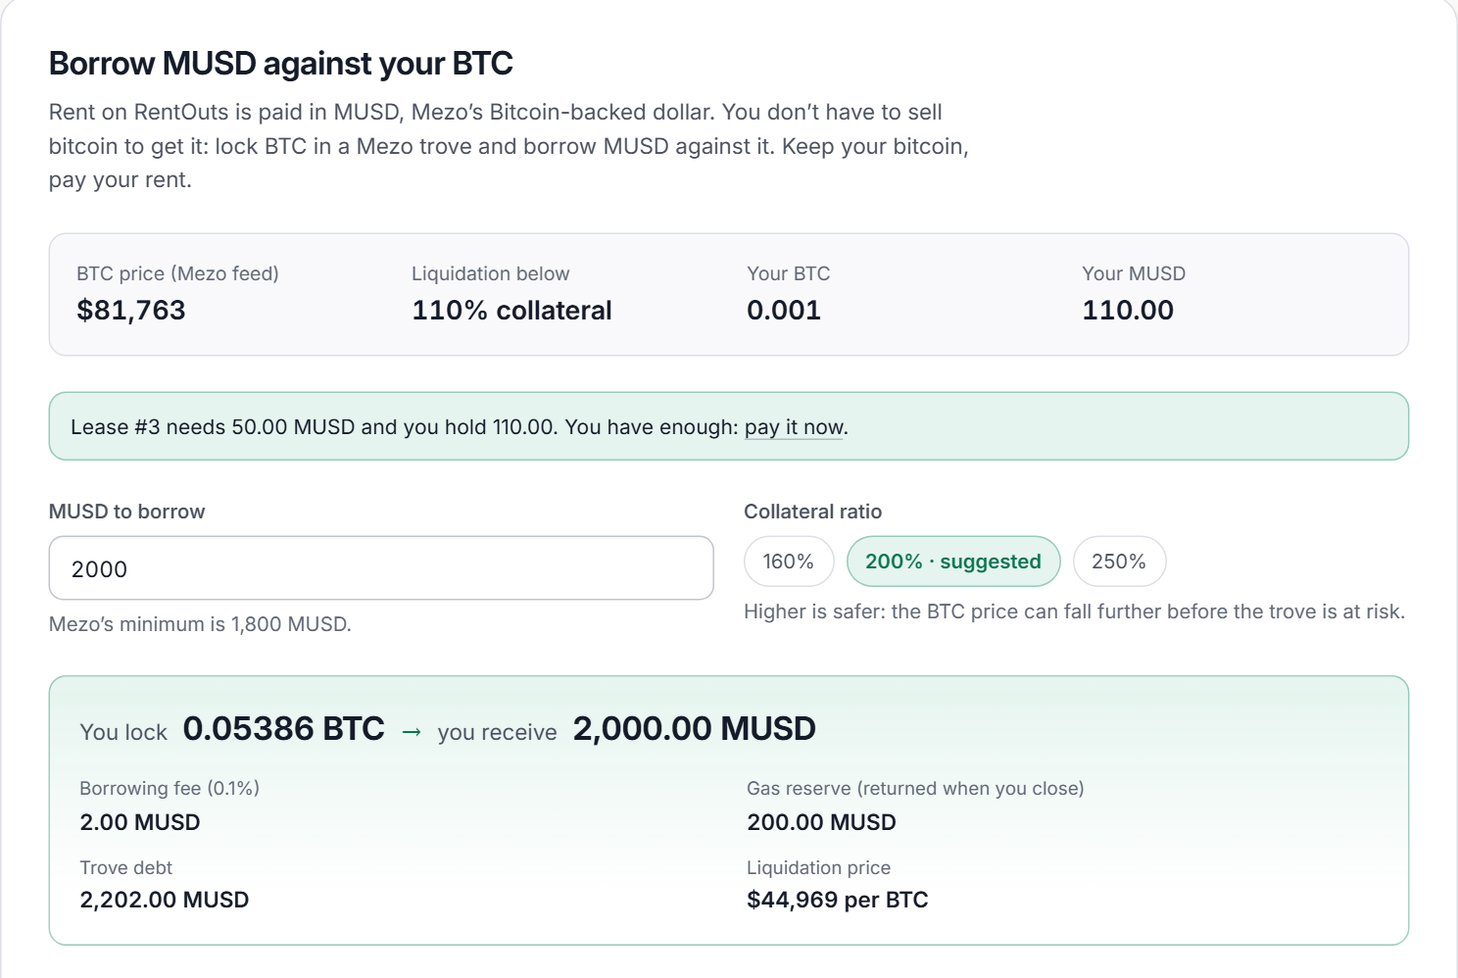
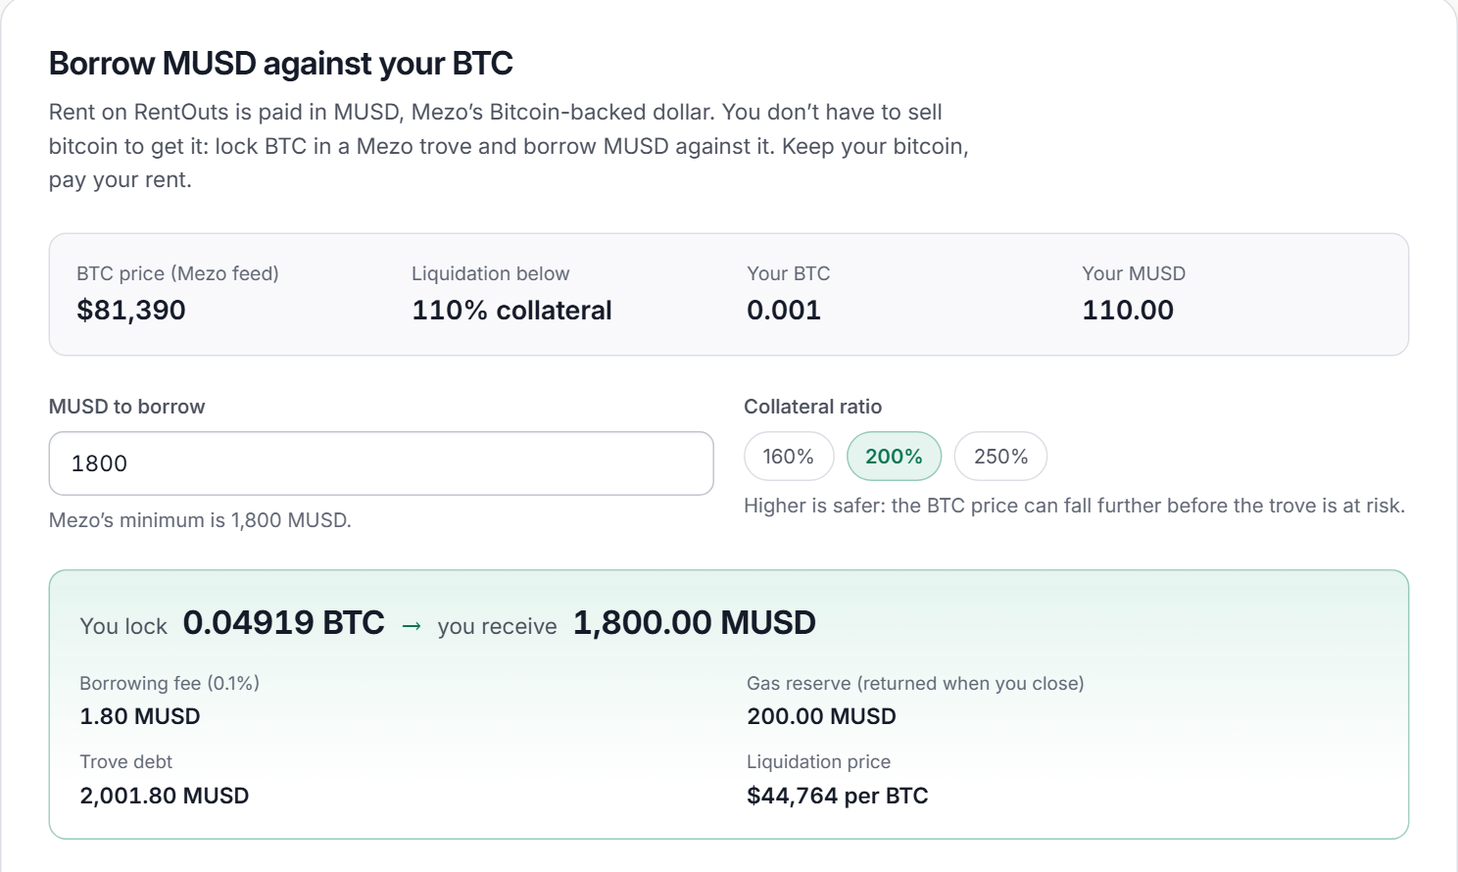
docs: full README — system map, lease flow and states, step screenshots, security model, limits, roadmap

diff --git a/README.md b/README.md
@@ -1,87 +1,232 @@
-# RentOuts MUSD
+# RentOuts × Mezo — pay rent in MUSD
 
-**Keep your bitcoin. Pay your rent.** Long-term rent and deposits paid in **MUSD** on Mezo testnet.
+**Keep your bitcoin. Pay your rent.**
 
-[rentouts.co](https://rentouts.co) is the existing rental marketplace. This repository is the new work for the Mezo Buildathon: the same non-custodial `RentEscrow` contracts, wired to MUSD, Mezo’s Bitcoin-backed stablecoin.
-
-`RentEscrow` takes its settlement token in the constructor. MUSD is that token. The contract does not hold admin keys, does not take a fee, and cannot be upgraded. A tenant prepays the deposit and the rent. Rent unlocks to the landlord one period at a time. At the end, the deposit comes back to the tenant.
-
-![RentOuts on Mezo: keep your bitcoin, pay your rent](docs/img/home.png)
-
-## Try it
-
-**Live app: https://mezo.rentouts.co** — one wallet is enough:
-
-1. **Get a lease** from the demo landlord (a contract that rents to anyone).
-2. **Borrow MUSD** against testnet BTC, in the app: it calls Mezo Borrow (`openTrove`, or `withdrawMUSD` on an existing trove) and shows the BTC price, collateral ratio, fee and liquidation price first.
-3. **Pay in MUSD**: approve, then prepay the deposit and every period’s rent into the escrow.
-4. **Run the lease**: rent releases to the landlord period by period; after the term, close it and the deposit comes back.
-
-Lease #2 is running on the live escrow until 6 Nov, so *Run the lease* shows rent unlocking without a wallet.
-
-| Borrow MUSD against BTC (Mezo Borrow) | A live lease, releasing rent daily |
-|---|---|
-| ![Borrow step](docs/img/borrow.png) | ![Lease #2](docs/img/live-lease.png) |
-
-Source and steps: [`app/`](app/README.md).
-
-## How MUSD is used
-
-| Where | Mezo / MUSD call |
-|---|---|
-| Borrow step | `BorrowerOperations.openTrove` / `withdrawMUSD`, hints from `HintHelpers.getApproxHint` + `SortedTroves.findInsertPosition`, price from the Mezo `PriceFeed` |
-| Pay step | `MUSD.approve` → `RentEscrow.fundLease` pulls deposit + all rent in MUSD |
-| Run step | `RentEscrow.claimRent` releases MUSD to the landlord per period; `closeLease` returns the MUSD deposit |
-
-## Network
+Long-term rent and deposits paid in **MUSD**, Mezo’s Bitcoin-backed dollar, through a non-custodial escrow on Mezo testnet. A tenant borrows MUSD against their BTC inside the app (no selling), prepays the deposit and rent into the escrow, and the escrow releases rent to the landlord one period at a time. At move-out the deposit goes straight back to the tenant.
 
 | | |
 |---|---|
-| Chain | Mezo testnet, id **31611** |
-| RPC | `https://rpc.test.mezo.org` |
-| Explorer | https://explorer.test.mezo.org |
-| Gas | BTC |
-| MUSD | `0x118917a40FAF1CD7a13dB0Ef56C86De7973Ac503` (**18 decimals**) |
-| Faucet | https://faucet.test.mezo.org |
+| **Live app** | **https://mezo.rentouts.co** (Mezo testnet, one wallet is enough) |
+| **Existing product** | https://rentouts.co — long-term rental marketplace (6–24 month homes, not nightly stays) |
+| **Buildathon** | Mezo Buildathon, Wave 1 · Track 2: Access and Distribution |
+| **Chain** | Mezo testnet, chain id 31611 · gas in BTC · MUSD `0x1189…c503` |
+| **Contracts** | Verified on Sourcify (exact match) · 104 Foundry tests incl. an invariant suite · 117 app tests |
+| **Team** | AiAlchemist · X [@RentOuts](https://x.com/RentOuts) |
 
-MUSD is minted by borrowing against testnet BTC (`BorrowerOperations.openTrove`), or by swapping inside https://testnet.mezo.org. ABIs for those public contracts are in `.mezo/`.
+![RentOuts on Mezo: keep your bitcoin, pay your rent](docs/img/home.png)
 
-Live `mezoTestnet` (source verified on Sourcify, exact match):
+---
 
-| Contract | Address |
+## Contents
+
+- [The problem](#the-problem)
+- [What we built](#what-we-built)
+- [Try it in five minutes](#try-it-in-five-minutes)
+- [How it works](#how-it-works) — system map, one lease end to end, lease states
+- [How MUSD and Mezo are used](#how-musd-and-mezo-are-used)
+- [Screenshots](#screenshots)
+- [Contracts and live evidence](#contracts-and-live-evidence)
+- [Security model](#security-model)
+- [Limitations](#limitations)
+- [Roadmap](#roadmap)
+- [Repository map](#repository-map)
+- [Build, test, deploy](#build-test-deploy)
+
+---
+
+## The problem
+
+A long-term lease puts one side at the other’s mercy.
+
+- **Renters** hand a deposit to the landlord’s bank and hope to see it again. Small-claims court is often the only door.
+- **Owners** chase late rent, bounced payments and reversals months later. Two spreadsheets, no shared ledger.
+- **Bitcoin holders** pay the biggest bill they have, rent, in dollars. Today that means selling BTC, with the tax event that comes with it.
+
+## What we built
+
+RentOuts is an existing, invite-only long-term rental marketplace at [rentouts.co](https://rentouts.co): owners list, renters search and inquire, both sign in with Ethereum. For the Mezo Buildathon we added the piece that makes the lease fair to both sides, paid in a Bitcoin-backed dollar:
+
+1. **RentEscrow on Mezo with MUSD as its token.** The tenant prepays the deposit and every period’s rent. Rent unlocks to the landlord period by period; the landlord can never take it early and the tenant can never be late. At the end the deposit returns to the tenant. No admin keys, no fee, not upgradeable. RentOuts never holds funds.
+2. **Borrow MUSD against BTC, in the app.** The Borrow step calls Mezo Borrow directly (`openTrove` for a new trove, `withdrawMUSD` for an existing one) and shows the BTC price, collateral ratio, fee and liquidation price before the tenant signs. It sizes a new trove to the wallet: Mezo’s testnet faucet BTC is enough on the first try.
+3. **DemoLandlord.** A contract landlord anyone can rent from, so a reviewer can run the whole tenant side with a single wallet.
+4. **A hosted app** at https://mezo.rentouts.co with live on-chain stats, a lease that keeps releasing rent through judging, and a mobile layout.
+
+## Try it in five minutes
+
+You need a browser wallet (MetaMask) on Mezo testnet; the app offers to add and switch the network.
+
+1. Get testnet BTC from **https://faucet.test.mezo.org** (0.05 BTC covers everything below).
+2. Open **https://mezo.rentouts.co** → **Get a lease** → *Get a demo lease*. The demo landlord creates a lease with you as the tenant: a 20 MUSD deposit and 3 × 10 MUSD rent, one period a minute.
+3. **Borrow MUSD** → the app suggests Mezo’s 1,800 MUSD minimum at the safest ratio your BTC allows → *Borrow*. Your BTC stays yours, locked in your own Mezo trove.
+4. **Pay in MUSD** → *Approve 50.00 MUSD* → *Pay rent in MUSD — Bitcoin-backed*.
+5. **Run the lease** → after a minute, *Release rent* (anyone may; it only ever goes to the landlord). After the term plus one period, *Close lease*: the 20 MUSD deposit comes back to you.
+
+No wallet? **Run the lease** shows lease #2 (800 MUSD prepaid, 50 MUSD released per day until 6 Nov 2026) live from the chain.
+
+## How it works
+
+### System map
+
+```mermaid
+flowchart LR
+    T(["Tenant wallet<br/>BTC"])
+    L(["Landlord"])
+    APP["RentOuts app<br/>mezo.rentouts.co"]
+
+    subgraph MEZO["Mezo testnet (chain 31611)"]
+        direction TB
+        subgraph BORROW["Mezo Borrow"]
+            BO["BorrowerOperations<br/>openTrove · withdrawMUSD"]
+            PF["PriceFeed"]
+            HH["HintHelpers + SortedTroves"]
+        end
+        MUSD[("MUSD<br/>Bitcoin-backed dollar")]
+        subgraph RO["RentOuts contracts"]
+            ESC["RentEscrow<br/>token = MUSD, no admin, no fee"]
+            LS["LeaseShare1155<br/>100 shares per lease"]
+            DL["DemoLandlord"]
+        end
+        ARB(["Arbiter<br/>disputes only"])
+    end
+
+    T -- "1 · lock BTC" --> BO
+    BO -- "mints" --> MUSD
+    MUSD -- "2 · MUSD to tenant" --> T
+    T -- "3 · approve + fundLease<br/>deposit + all rent" --> ESC
+    ESC -- "4 · claimRent, each period" --> L
+    ESC -- "5 · closeLease: deposit back" --> T
+    ESC -- "mint on createLease" --> LS
+    DL -- "createLease for any tenant" --> ESC
+    ARB -. "resolveDispute: split what is left" .-> ESC
+    APP -. "reads price, ratio, hints" .-> PF
+    APP -. "reads" .-> HH
+    APP -. "signs via wallet" .-> T
+```
+
+### One lease, end to end
+
+```mermaid
+sequenceDiagram
+    autonumber
+    actor Tenant
+    participant App as RentOuts app
+    participant DL as DemoLandlord
+    participant Mezo as Mezo Borrow
+    participant MUSD
+    participant Escrow as RentEscrow
+    actor Landlord
+
+    Tenant->>DL: requestLease()
+    DL->>Escrow: createLease(tenant, 20, 10, 60s, 3)
+    Escrow-->>DL: lease #n + 100 LeaseShare1155 shares
+    App->>Mezo: fetchPrice, MCR, fee, hints
+    Tenant->>Mezo: openTrove(1,800 MUSD) with BTC (or withdrawMUSD)
+    Mezo->>MUSD: mint to tenant
+    Tenant->>MUSD: approve(escrow, 50)
+    Tenant->>Escrow: fundLease(n)
+    MUSD->>Escrow: 50 MUSD (deposit + all rent)
+    loop every period
+        Landlord->>Escrow: claimRent(n) (anyone may call)
+        Escrow->>MUSD: 10 MUSD to the landlord
+    end
+    Tenant->>Escrow: closeLease(n) after term + one period
+    Escrow->>MUSD: 20 MUSD deposit back to the tenant
+```
+
+### Lease states
+
+```mermaid
+stateDiagram-v2
+    [*] --> CREATED: createLease (landlord)
+    CREATED --> CANCELLED: cancelLease (landlord, before funding)
+    CREATED --> ACTIVE: fundLease (tenant prepays deposit + all rent)
+    ACTIVE --> ACTIVE: claimRent (anyone; rent only to the landlord)
+    ACTIVE --> CLOSED: closeLease (after the term; rest of rent to landlord, deposit to tenant)
+    ACTIVE --> DISPUTED: openDispute (tenant or landlord)
+    DISPUTED --> CLOSED: resolveDispute (arbiter splits what is left)
+    CLOSED --> [*]
+    CANCELLED --> [*]
+```
+
+After the term, the landlord can close at once; anyone else can close one period later. That grace period is the landlord’s window to open a dispute (for example over damage) before the deposit goes back.
+
+## How MUSD and Mezo are used
+
+| Step | Contract call | Why it matters |
+|---|---|---|
+| Borrow | `BorrowerOperations.openTrove(debt, upperHint, lowerHint)` with BTC as value, or `withdrawMUSD(amount, …)` on an existing trove | The tenant gets MUSD without selling BTC. Each new tenant who borrows opens a Mezo Borrow position. |
+| Borrow (reads) | `PriceFeed.fetchPrice`, `MCR`, `CCR`, `minNetDebt`, `borrowingRate`, `MUSD_GAS_COMPENSATION`, `TroveManager.getEntireDebtAndColl` | Price, ratio, fee and liquidation price are shown before signing; the default is sized to the wallet’s BTC. |
+| Borrow (hints) | `HintHelpers.computeNominalCR` + `getApproxHint` → `SortedTroves.findInsertPosition` | Keeps the trove insert cheap; falls back to zero hints if the lookup fails. |
+| Pay | `MUSD.approve` → `RentEscrow.fundLease` | Deposit plus every period’s rent are held in MUSD for the whole term. |
+| Run | `RentEscrow.claimRent` · `closeLease` | MUSD flows to the landlord per period and back to the tenant at the end. |
+
+Why rent is a good use of MUSD: it is the largest recurring bill most people pay, and every lease holds MUSD for months. One $2,000-a-month, 12-month lease is 26,000 MUSD held in escrow on day one and released over a year.
+
+## Screenshots
+
+| 1 · Get a lease from the demo landlord | 2 · Borrow MUSD against BTC |
 |---|---|
-| RentEscrow | [`0xA9f09366991E6df87855F4B99025911790d4C3aF`](https://explorer.test.mezo.org/address/0xA9f09366991E6df87855F4B99025911790d4C3aF) |
-| LeaseShare1155 | [`0xfE8bF13ed62A473277d841b0DEDf7720C3DBc820`](https://explorer.test.mezo.org/address/0xfE8bF13ed62A473277d841b0DEDf7720C3DBc820) |
-| DemoLandlord | [`0x6621dE90776302aD1a3C0190141f9169B4A0112B`](https://explorer.test.mezo.org/address/0x6621dE90776302aD1a3C0190141f9169B4A0112B) — 20 MUSD deposit, 10 MUSD / 60s × 3 |
-| Arbiter | `0x1da334A5FaB59a741fDAE7f081c7f592027b3106` |
-| Human gate | none |
+| ![Demo lease](docs/img/step1-demo-lease.png) | ![Borrow](docs/img/borrow.png) |
 
-**Lease #1** (closed): 20 MUSD deposit, 10 MUSD / 60s × 2 periods. Landlord claimed one period; tenant closed and got the deposit back.
+| 3 · Pay deposit + rent in MUSD | 4 · Rent released, deposit back |
+|---|---|
+| ![Pay](docs/img/step3-pay.png) | ![Closed lease](docs/img/step4-closed.png) |
+
+| A lease releasing rent during judging | Every step on the Mezo explorer |
+|---|---|
+| ![Lease #2](docs/img/live-lease.png) | ![Explorer](docs/img/explorer.png) |
+
+<p align="center"><img src="docs/img/mobile.png" alt="Mobile" width="260" /></p>
+
+## Contracts and live evidence
+
+All on Mezo testnet (chain 31611), verified on Sourcify (exact match).
+
+| Contract | Address | Role |
+|---|---|---|
+| RentEscrow | [`0xA9f09366991E6df87855F4B99025911790d4C3aF`](https://explorer.test.mezo.org/address/0xA9f09366991E6df87855F4B99025911790d4C3aF) | Holds deposit + rent in MUSD; releases rent per period |
+| LeaseShare1155 | [`0xfE8bF13ed62A473277d841b0DEDf7720C3DBc820`](https://explorer.test.mezo.org/address/0xfE8bF13ed62A473277d841b0DEDf7720C3DBc820) | ERC-1155 lease shares (100 per lease, compliance allowlist) |
+| DemoLandlord | [`0x6621dE90776302aD1a3C0190141f9169B4A0112B`](https://explorer.test.mezo.org/address/0x6621dE90776302aD1a3C0190141f9169B4A0112B) | Rents to anyone: 20 MUSD deposit, 10 MUSD / 60 s × 3 |
+| Arbiter | `0x1da334A5FaB59a741fDAE7f081c7f592027b3106` | Can only split a disputed lease between its two parties |
+| MUSD (Mezo) | `0x118917a40FAF1CD7a13dB0Ef56C86De7973Ac503` | Settlement token, 18 decimals |
+| BorrowerOperations (Mezo) | `0xCdF7028ceAB81fA0C6971208e83fa7872994beE5` | `openTrove` / `withdrawMUSD` |
+
+**Lease #6 — the full flow from the live site** (demo lease → borrow in-app → pay → release → close):
 
 | Step | Tx |
 |---|---|
-| Mint 2000 MUSD (`openTrove`) | [`0x037283b2…917b`](https://explorer.test.mezo.org/tx/0x037283b2380752c8ce1c58df1a11ebd0e2a3c8b8ca3316d2b50905ef5466917b) |
-| createLease | [`0x5c819992…92ed`](https://explorer.test.mezo.org/tx/0x5c8199923d447762e3328682c0018834a393ba369b8932d6b513f751184a92ed) |
-| fundLease | [`0x3bd42097…9690`](https://explorer.test.mezo.org/tx/0x3bd42097117b0277f2d44e90bcc07ab757c0c1e5c0d95fbd49995602eaa89690) |
-| claimRent | [`0xe3dddf8d…02ef`](https://explorer.test.mezo.org/tx/0xe3dddf8d66a9a19c3fe675b2ce524a230a33c34b951409ea6394645db63302ef) |
-| closeLease | [`0x0ca9fcd7…1c87`](https://explorer.test.mezo.org/tx/0x0ca9fcd7661273512c8fffd0a708d51a817a0fe6878e4ef4396c62eb1cb71c87) |
+| DemoLandlord.requestLease | [`0x5d250a56…6c4e`](https://explorer.test.mezo.org/tx/0x5d250a56d0df12add7416852a1f8a5b8862f093cc1a2caf67ac5f77765ed6c4e) |
+| BorrowerOperations.withdrawMUSD | [`0x20654b72…c97c`](https://explorer.test.mezo.org/tx/0x20654b722b6c333a59cabe5ca19f772753152c946043f619d5609638204ec97c) |
+| MUSD.approve | [`0x2efcf493…d4f9`](https://explorer.test.mezo.org/tx/0x2efcf493db6717f081054bf22406d3c412875c522fece6488895a9f858ecd4f9) |
+| RentEscrow.fundLease | [`0xed3097f3…28aa`](https://explorer.test.mezo.org/tx/0xed3097f36a3898811192d5f0f5f6220b5d95b75eaa66918ef13491508c1c28aa) |
+| RentEscrow.claimRent | [`0x6a684a83…a021`](https://explorer.test.mezo.org/tx/0x6a684a831177a4bef4d524e68d63fcb5e2c67c3102e38b40d44d2b61c35da021) |
+| RentEscrow.closeLease | [`0xc462a321…ae77`](https://explorer.test.mezo.org/tx/0xc462a3219e08f85912ebe0a0a334eca7cc6a1f5edb9788138d99aebfe85cae77) |
 
-**Lease #2** (active until 6 Nov 2026): 100 MUSD deposit, 50 MUSD / day × 14 periods, 800 MUSD prepaid. Rent unlocks to the landlord one day at a time; read it live with `getLease(2)` and `claimable(2)`.
+**Lease #1** — first MUSD lease, minted through `openTrove` (2,000 MUSD on 0.045 BTC): [`openTrove`](https://explorer.test.mezo.org/tx/0x037283b2380752c8ce1c58df1a11ebd0e2a3c8b8ca3316d2b50905ef5466917b) · [`createLease`](https://explorer.test.mezo.org/tx/0x5c8199923d447762e3328682c0018834a393ba369b8932d6b513f751184a92ed) · [`fundLease`](https://explorer.test.mezo.org/tx/0x3bd42097117b0277f2d44e90bcc07ab757c0c1e5c0d95fbd49995602eaa89690) · [`claimRent`](https://explorer.test.mezo.org/tx/0xe3dddf8d66a9a19c3fe675b2ce524a230a33c34b951409ea6394645db63302ef) · [`closeLease`](https://explorer.test.mezo.org/tx/0x0ca9fcd7661273512c8fffd0a708d51a817a0fe6878e4ef4396c62eb1cb71c87)
 
-| Step | Tx |
-|---|---|
-| createLease | [`0x2f0dd40f…c9f7`](https://explorer.test.mezo.org/tx/0x2f0dd40f50ad94a28935af4acdc7802d59fd28bfa3df51a1d1d40a960ce7c9f7) |
-| fundLease | [`0xd1d5088b…6532`](https://explorer.test.mezo.org/tx/0xd1d5088b7956bee94ce8ca5bc85a38ff4e63fcb3e5c0bca00b0f7ba00b116532) |
+**Lease #2** — running until 6 Nov 2026: 100 MUSD deposit, 50 MUSD / day × 14, 800 MUSD prepaid ([`createLease`](https://explorer.test.mezo.org/tx/0x2f0dd40f50ad94a28935af4acdc7802d59fd28bfa3df51a1d1d40a960ce7c9f7) · [`fundLease`](https://explorer.test.mezo.org/tx/0xd1d5088b7956bee94ce8ca5bc85a38ff4e63fcb3e5c0bca00b0f7ba00b116532)). Read it live with `getLease(2)` and `claimable(2)`.
 
-Full log: [docs/MEZO-DEMO.md](docs/MEZO-DEMO.md).
+Full transaction log: [docs/MEZO-DEMO.md](docs/MEZO-DEMO.md).
 
-## Limitations (honest list)
+## Security model
 
-**Getting MUSD takes real BTC.** Mezo's minimum trove is 1,800 MUSD (plus a 0.1% fee and a 200 MUSD gas reserve that comes back when the trove closes). At about $81k per BTC that needs roughly 0.037 BTC at 150% and 0.049 BTC at 200%: about $3,000–4,000 of BTC, even for a small lease. Mezo's testnet faucet gives 0.05 BTC, which the app sizes for. Mezo charges 1% a year on the trove. Already holding MUSD skips all of this.
+- **No owner, no admin, no fee, no upgrade path.** Token, arbiter, lease-share contract and human gate are immutable constructor arguments.
+- **Funds only ever reach the lease’s two parties.** The arbiter cannot be a landlord or tenant and can only split a disputed lease’s own remaining escrow.
+- **Invariants, fuzzed** (`test/RentEscrow.invariant.t.sol`, 64 runs × depth 256, revert = failure):
+  - INV-1 funds only ever move to the lease’s tenant or landlord;
+  - INV-2 the sum of every lease’s escrow balance equals the escrow’s MUSD balance;
+  - INV-3 rent released never exceeds rent per period × elapsed periods (capped at the term);
+  - INV-4 a dispute pays out exactly the lease’s remaining escrow.
+- **Rent can’t be taken early or withheld.** `claimRent` releases only elapsed periods, and anyone may call it, but the MUSD only goes to the landlord.
+- **The app holds no keys.** It is a static site; every transaction is signed in the user’s wallet, simulated first so reverts show as readable messages.
 
-**The whole lease is prepaid.** `RentEscrow` takes the deposit and every period's rent in one transaction. That is what makes rent impossible to miss for the landlord, but a 12-month, $2,000 lease means 26,000 MUSD up front (about 0.64 BTC at 200%).
+## Limitations
 
-**The tenant carries the BTC price risk, the landlord does not.** The BTC is in the tenant's own Mezo trove, not in the escrow: RentOuts and the landlord cannot touch it, and the tenant can repay and withdraw it at any time. What protects the landlord is the MUSD already in escrow. If BTC falls far enough, the tenant's trove can be liquidated or redeemed against, but the lease keeps paying the landlord.
+**Getting MUSD takes real BTC.** Mezo’s minimum trove is 1,800 MUSD (plus a 0.1% fee and a 200 MUSD gas reserve that comes back when the trove closes). At about $81k per BTC that needs roughly 0.037 BTC at 150% and 0.049 BTC at 200%: about $3,000–4,000 of BTC, even for a small lease. Mezo’s testnet faucet gives 0.05 BTC, which the app sizes for. Mezo charges 1% a year on the trove. Already holding MUSD skips all of this.
+
+**The whole lease is prepaid.** `RentEscrow` takes the deposit and every period’s rent in one transaction. That is what makes rent impossible to miss for the landlord, but a 12-month, $2,000 lease means 26,000 MUSD up front (about 0.64 BTC at 200%).
+
+**The tenant carries the BTC price risk, the landlord does not.** The BTC is in the tenant’s own Mezo trove, not in the escrow: RentOuts and the landlord cannot touch it, and the tenant can repay and withdraw it at any time. What protects the landlord is the MUSD already in escrow. If BTC falls far enough, the tenant’s trove can be liquidated or redeemed against, but the lease keeps paying the landlord.
 
 **Breaking a lease goes through a dispute.** There is no mutual early termination yet. A tenant who moves out early, a landlord who needs the unit back, or a unit that is not as promised: either side opens a dispute, which freezes what is left in escrow until the arbiter splits it. Rent already released stays released; damage beyond what is left in escrow is not covered on-chain. A dispute has no timeout, so the arbiter must stay available (one key on testnet; a multisig is planned).
 
@@ -89,21 +234,56 @@ Full log: [docs/MEZO-DEMO.md](docs/MEZO-DEMO.md).
 
 **Testnet, not audited.** No real funds, no external audit yet. `DemoLandlord` exists only so one wallet can try the tenant side.
 
-**Next (Wave 2):** pay monthly instead of prepaying the whole term (deposit plus the next period, topped up as it goes), mutual early termination with an agreed penalty, a dispute timeout, and borrow-and-pay in one transaction.
+## Roadmap
 
-## Run the tests
+| When | Milestone |
+|---|---|
+| **Wave 2 · by 15 Nov 2026** | Pay monthly instead of prepaying the whole term (deposit plus the next period, topped up as it goes) · mutual early termination with an agreed penalty · a dispute timeout · borrow-and-pay in one transaction |
+| **Q1 2027** | MUSD as a payment option in the rentouts.co owner and renter portals for invite-only beta leases |
+| **Q2 2027** | External audit, Mezo mainnet launch, multisig arbiter |
 
-[Foundry](https://book.getfoundry.sh/) is required.
+## Repository map
+
+```
+rentouts-musd/
+├── src/
+│   ├── RentEscrow.sol          escrow: create · fund · claimRent · close · dispute
+│   ├── LeaseShare1155.sol      ERC-1155 lease shares with a compliance allowlist
+│   ├── DemoLandlord.sol        a landlord anyone can rent from (one-wallet demo)
+│   ├── HumanGate.sol           optional "verified human" gate for funding (off on Mezo)
+│   └── interfaces/             IRentEscrow (lifecycle + invariants), IHumanGate
+├── test/                       104 Foundry tests, incl. RentEscrow.invariant.t.sol
+├── script/                     DeployEscrow.s.sol, DeployDemoLandlord.s.sol
+├── deployments.json            live addresses ("mezoTestnet")
+├── .mezo/                      Mezo protocol ABIs + a raw eth_call helper
+├── app/                        the web app (React 19, Vite, wagmi + viem)
+│   └── src/
+│       ├── panels/             Get a lease · Borrow · Pay · Run · Lease shares
+│       ├── lib/trove.ts        Mezo Borrow math (ratio, collateral, liquidation, sizing)
+│       └── abi/mezo.ts         Mezo Borrow ABIs and addresses
+└── docs/                       MEZO-DEMO.md (tx log), img/ (screenshots)
+```
+
+## Build, test, deploy
+
+Contracts ([Foundry](https://book.getfoundry.sh/)):
 
 ```bash
 forge install
-forge test        # 104 tests, including the RentEscrow invariant suite
-cd app && npm install && npm test   # app: trove math, deployments, copy
+forge test                     # 104 tests, including the invariant suite
 ```
 
-## Deploy
+App:
 
-Use a Foundry keystore account. Do not pass a raw private key, and do not commit a keystore.
+```bash
+cd app
+npm install
+npm test                       # 117 tests: trove math, receipts, deployments, copy
+npm run dev                    # http://localhost:5173 (Mezo testnet by default)
+npm run build                  # static output in app/dist
+```
+
+Deploy the escrow with a Foundry keystore (never a raw private key):
 
 ```bash
 ESCROW_TOKEN=0x118917a40FAF1CD7a13dB0Ef56C86De7973Ac503 \
@@ -113,18 +293,17 @@ forge script script/DeployEscrow.s.sol --profile mezo --rpc-url mezo_testnet \
   --account <keystore-name> --sender <deployer-address> --broadcast
 ```
 
-`ESCROW_HUMAN_GATE=none` leaves funding ungated on this escrow (a gate cannot be added later). A future deploy can pass a `HumanGate`; that gate never holds tokens and never touches a lease that is already funded.
+`ESCROW_HUMAN_GATE=none` leaves funding ungated on this escrow (a gate cannot be added later). A successful broadcast adds a `mezoTestnet` entry to `deployments.json`; the `baseSepolia` key in that file is a placeholder used by the script’s tests, not a live deployment.
 
-A successful broadcast adds a `mezoTestnet` entry to `deployments.json`. The `baseSepolia` key already in that file is a placeholder so the script's read-modify-write can be tested. It is not a live deployment.
-
-### DemoLandlord
+Deploy the demo landlord, then allowlist it on LeaseShare1155 once (creating a lease mints its shares to the landlord):
 
 ```bash
 ESCROW=<RentEscrow address> forge script script/DeployDemoLandlord.s.sol --profile mezo --rpc-url mezo_testnet \
   --account <keystore-name> --sender <deployer-address> --broadcast
+# then, as the LeaseShare1155 owner: setAllowlist(<DemoLandlord>, true)
 ```
 
-Then the LeaseShare1155 owner allowlists it once (`setAllowlist(demoLandlord, true)`): creating a lease mints its shares to the landlord.
+The app is a static build served by a Cloudflare Worker (`app/wrangler.jsonc`); it reads every address from `deployments.json` at build time and holds no secrets.
 
 ## License
 
